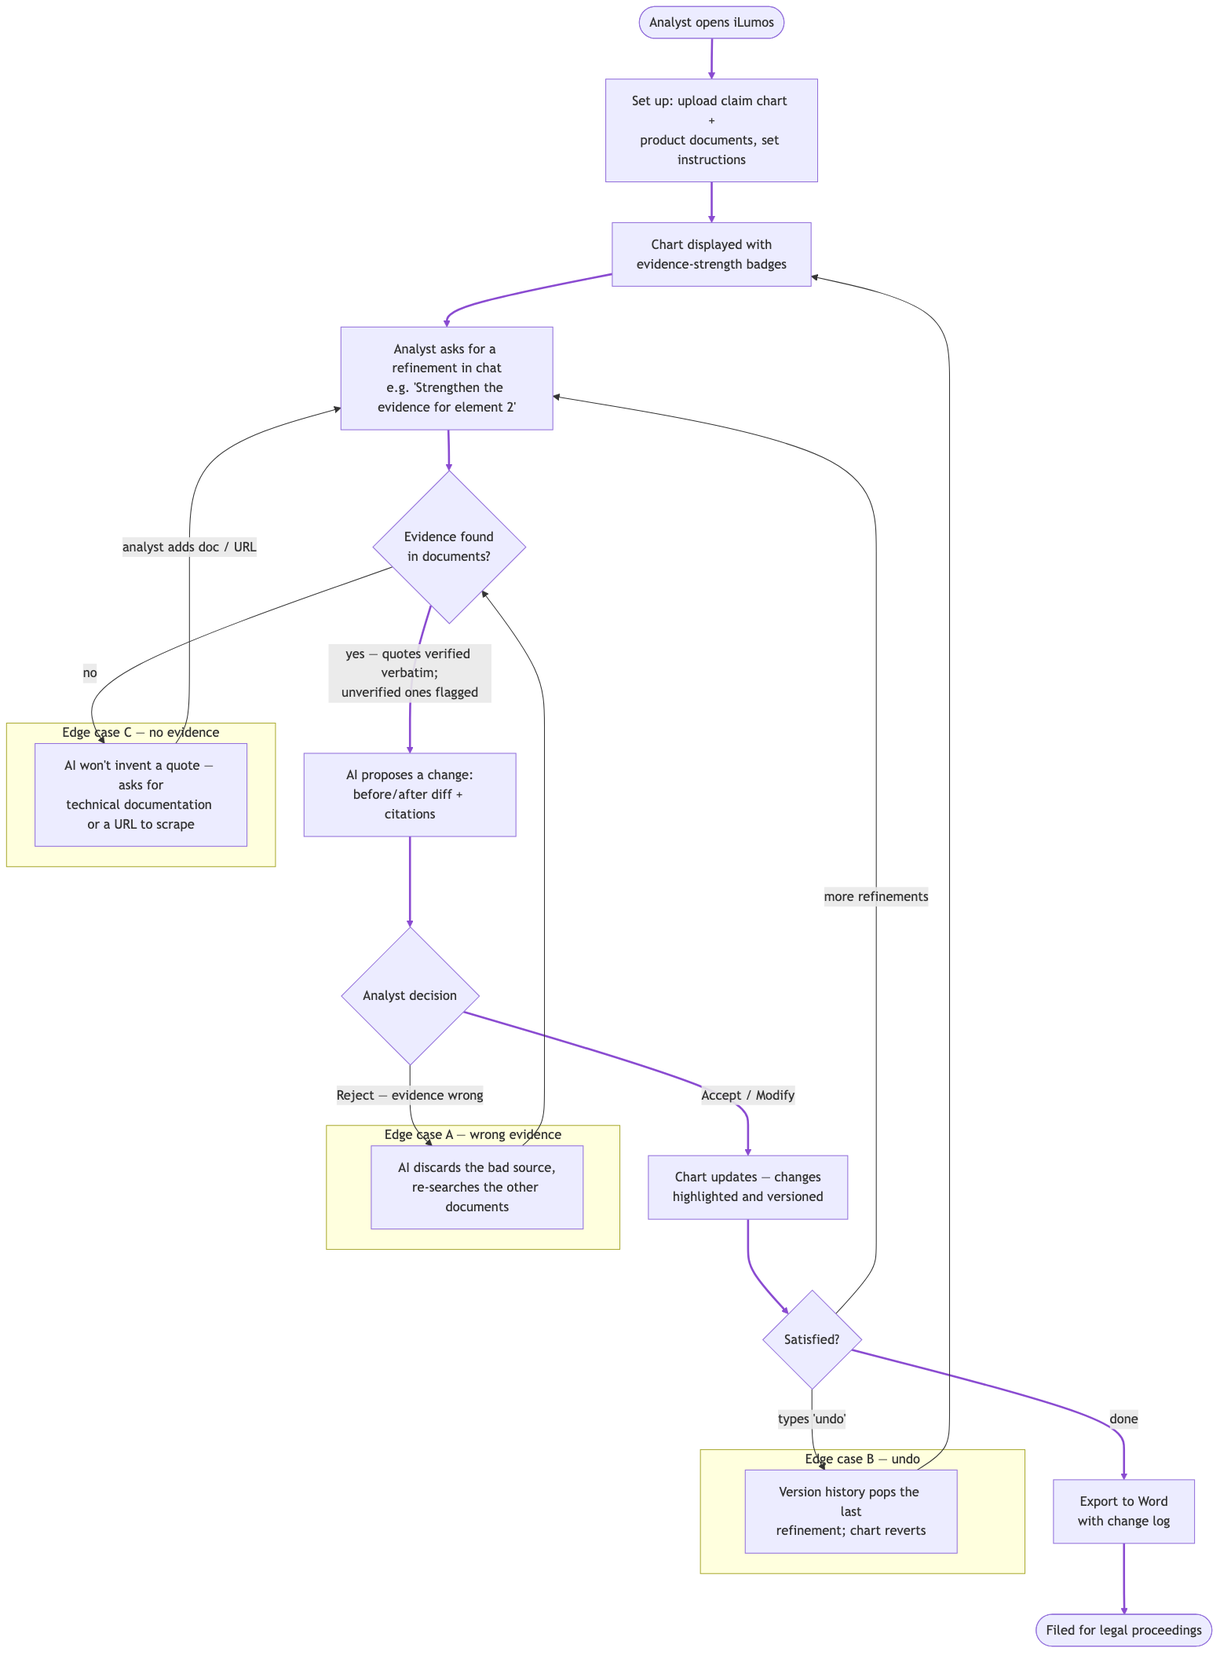
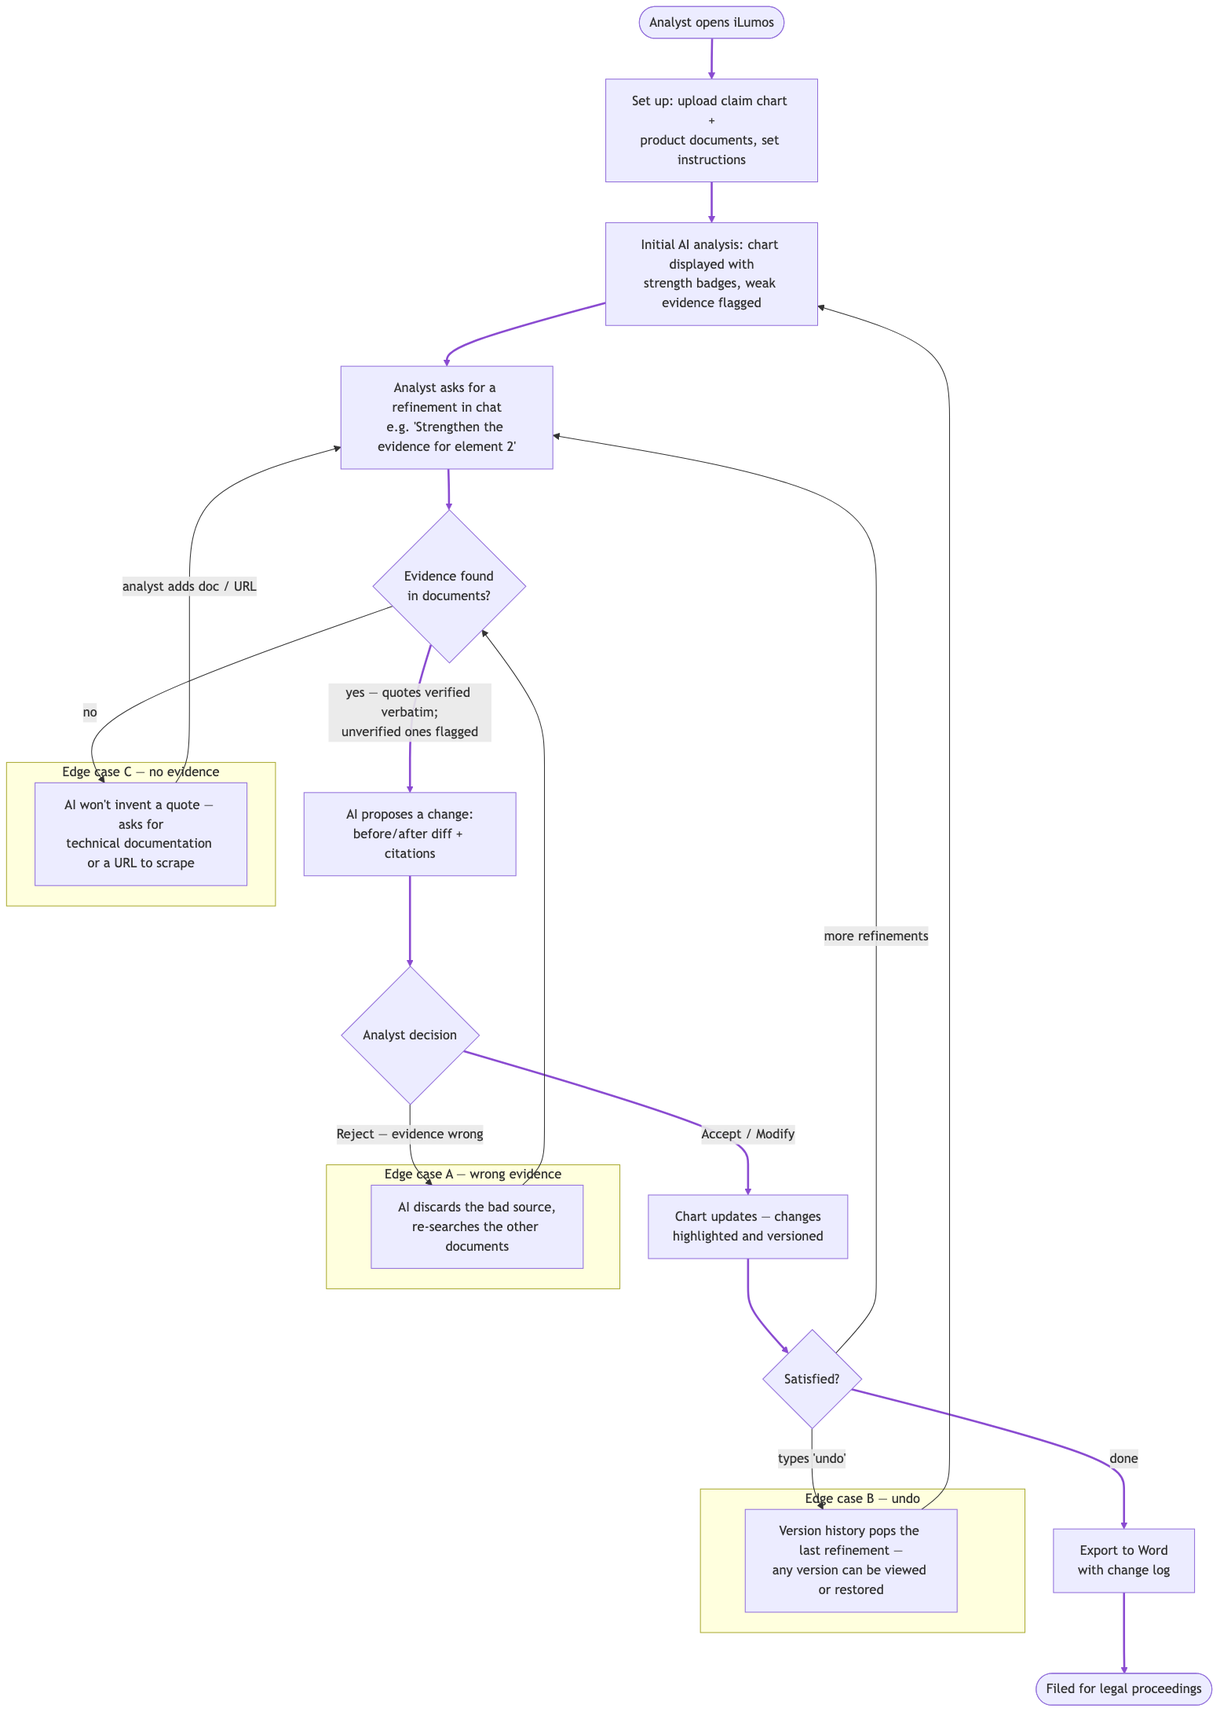
Final recruiter-perspective audit: drift fixes, graceful LLM fallback, docs re-aligned
- LLM failures now auto-answer via the grounded built-in engine with a labeled
  warning (old copy dead-ended users at a removed Demo toggle)
- Stale 'sidebar' references fixed in needs-input card, chat caption, prompts
  README; dead engine_status removed
- Diagram: initial-analysis node + view/restore in the undo edge case (PNG
  re-rendered); PRD: version view/restore + 'restore to vN' assumption,
  re-verified exactly 1 page in Word
- Handoff video script re-timed to the current UI (AI instructions on Home,
  metrics under chat, version-history beat)
- Suites: 47 backend + 20 UI + 37 browser E2E + live API test, all passing

diff --git a/backend/service.py b/backend/service.py
@@ -18,19 +18,6 @@ from backend.refinement_engine import (SessionMetrics, accept_suggestion,
                                        reject_suggestion)
 
 
-def engine_status(demo_mode: bool, settings: Settings | None = None) -> tuple[str, str]:
-    """(badge_label, detail) for the sidebar status pill."""
-    settings = settings or get_settings()
-    if demo_mode:
-        return ("🎭 Demo mode", "Scripted engine — no API calls. Grounded against "
-                                "your uploaded documents.")
-    if settings.llm_configured:
-        endpoint = settings.base_url or "api.openai.com"
-        return (f"⚡ Live · {settings.model}", f"Endpoint: {endpoint}")
-    return ("⚠ No API key", "Set OPENAI_API_KEY in .env / Streamlit secrets, "
-                             "or switch on Demo mode.")
-
-
 def respond(user_message: str, *, demo_mode: bool, system_prompt: str,
             store: ChartStore, docs: list[DocFile],
             history: list[ChatMessage], metrics: SessionMetrics,
@@ -79,12 +66,18 @@ def respond(user_message: str, *, demo_mode: bool, system_prompt: str,
                                        docs=docs, history=history)
         except (LLMError, ValueError) as exc:
             # ValueError covers prompt-template mismatches — respond() promises
-            # the UI it never raises, whatever breaks underneath.
+            # the UI it never raises. Degrade gracefully: answer with the
+            # grounded built-in engine so the analyst is never dead-ended.
             metrics.llm_failures += 1
-            return EngineResponse(
-                reply=(f"⚠ {exc}\n\nYou can retry, check your key/endpoint in the "
-                       "sidebar status, or switch on **Demo mode** to continue "
-                       "without the API."),
-                handled_intent="error")
+            resp = handle_user_message_demo(user_message, store=store,
+                                            docs=docs, history=history)
+            reason = str(exc)[:200]
+            resp.reply = (f"⚠ *The live model call failed ({reason}), so this "
+                          "answer comes from the built-in fallback engine — "
+                          "still grounded in your documents. Retry anytime.*\n\n"
+                          + resp.reply)
+            resp.handled_intent = resp.handled_intent or "llm_error_fallback"
+            metrics.record_new(resp.suggestions)
+            return resp
     metrics.record_new(resp.suggestions)
     return resp

diff --git a/scripts/smoke_test.py b/scripts/smoke_test.py
@@ -212,7 +212,18 @@ check("viewing an old version is read-only display",
 store.return_to_latest()
 check("return to latest clears view mode", not store.is_viewing_old)
 
-# 13. Export
+# 13. Live-LLM failure degrades to a grounded fallback answer (never a dead end)
+from backend.config import Settings
+
+bad_settings = Settings(api_key="sk-test-000000000000",
+                        base_url="http://127.0.0.1:9", model="nope")
+fr = respond("Strengthen the evidence for element 2", demo_mode=False,
+             system_prompt=DEFAULT_SYSTEM_PROMPT, store=store, docs=docs,
+             history=history, metrics=metrics, settings=bad_settings)
+check("LLM failure falls back to grounded engine",
+      "fallback engine" in fr.reply and metrics.llm_failures >= 1)
+
+# 14. Export
 data = export_docx(store)
 check("docx exported", data[:2] == b"PK" and len(data) > 2000)
 check("export filename derived safely",

diff --git a/backend/demo_engine.py b/backend/demo_engine.py
@@ -97,9 +97,9 @@ def _needs_input(topic: str) -> EngineResponse:
                        "Fabricating evidence would be worse than a gap."),
             confidence="low",
             needs_from_user=("Upload technical documentation (spec sheet, developer "
-                             "docs, teardown report) via the sidebar, or paste a "
-                             "product-page URL in the sidebar's 'Fetch evidence from "
-                             "URL' box and I'll scrape it for evidence."),
+                             "docs, teardown report) in the Evidence tab, or paste a "
+                             "product-page URL there in 'Fetch evidence from a URL' "
+                             "and I'll scrape it for evidence."),
         )],
     )
 

diff --git a/backend/llm_client.py b/backend/llm_client.py
@@ -15,8 +15,9 @@ class LLMError(RuntimeError):
 class LLMClient:
     def __init__(self, settings: Settings):
         if not settings.llm_configured:
-            raise LLMError("No API key configured. Set OPENAI_API_KEY in .env "
-                           "or Streamlit secrets, or use Demo mode.")
+            raise LLMError("No API key configured — set OPENAI_API_KEY in .env "
+                           "or Streamlit secrets. (Without one, the built-in "
+                           "engine answers automatically.)")
         from openai import OpenAI
         # Bounded waiting: Streamlit runs single-threaded, so the SDK defaults
         # (600s read timeout x 2 retries) would freeze the app behind a spinner

diff --git a/frontend/components/chat_panel.py b/frontend/components/chat_panel.py
@@ -136,8 +136,8 @@ def _render_suggestion(sug: Suggestion) -> None:
 
         if sug.action == "needs_input":
             st.markdown(sug.needs_from_user or sug.rationale)
-            st.caption("📎 Use **Product documents** or **Fetch evidence from URL** "
-                       "in the sidebar, then ask me again.")
+            st.caption("📎 Add a document or fetch a URL in the **Evidence tab**, "
+                       "then ask me again.")
             return
 
         row = store.current.get_row(sug.target_row_id) if sug.target_row_id else None

diff --git a/backend/refinement_engine.py b/backend/refinement_engine.py
@@ -49,7 +49,7 @@ _HISTORY_TURNS = 8
 
 @dataclass
 class SessionMetrics:
-    """Chat-quality signals surfaced in the sidebar (and proposed in the PRD)."""
+    """Chat-quality signals surfaced under the chat pane (and proposed in the PRD)."""
     suggestions_made: int = 0
     accepted: int = 0
     rejected: int = 0

diff --git a/docs/4_Logic_and_Decisions.md b/docs/4_Logic_and_Decisions.md
@@ -139,17 +139,24 @@ unrelated weak row instead of honestly reporting "no evidence".
 | 2026-08-23 | **Audit round (41 findings, 6 role-matched reviewers + adversarial verification):** undo intent narrowed to short imperatives (was a data-loss false-positive); XML-invalid control chars stripped at parse + export (was a page-bricking crash); grounding minimums raised to ≥4 words / ≥20 chars with doc-name correction (was trivially gameable); decision guards for orphaned/double-clicked suggestions (was an uncaught crash + corrupted metrics); upload dedup keyed on file_id and reset on sample load (was silently eating re-uploads); Modify-form edits compared against seeds so deletions count; before/after diff given background chips (dark-theme legibility); export bytes cached per version (was rebuilt every rerun); view-layer logic moved behind ChartStore/exporter helpers; column mapping refuses partial alias+position mixes; URL fetch hardened (scheme case, content-type, private hosts) with pool dedup + remove controls; `.xls` dropped (xlrd never shipped); LLM client timeout 60s/1 retry; unlabeled demo fallback now announces itself; PRD typeset for one page + italics fixed in the converter | Every reviewer finding ≥ minor severity closed; both test suites extended with regressions and passing |
 | 2026-08-23 | Prompts extracted to `prompts/` (system prompt, output contract with worked example, context template) + `backend/prompts.py` loader | User requirement: prompts reviewable in one place, enterprise-grade structure, rated ≥9/10 |
 | 2026-08-23 | Brand restyle to ilumos.ai identity; user-flow diagram re-laid-out (straight highlighted trunk, junction dots, explicit reject fork) | Design parity with the real product; grader-reported label ambiguity fixed |
+| 2026-08-23 | **Final recruiter-perspective audit:** LLM failures now auto-fall back to the grounded built-in engine (previous copy dead-ended graders at a removed Demo toggle); all stale "sidebar" references fixed (needs-input card, chat caption, prompts README); dead `engine_status` removed; diagram updated (initial-analysis node, view/restore in the undo box); PRD updated (version view/restore + "restore to vN" assumption) and re-verified one page in Word; handoff video script re-timed to the current UI | Zero drift between docs, diagram, PRD, and the shipped app before submission |
 | 2026-08-23 | **UI v2 (final-product pass, per Abhinav):** sidebar removed — onboarding screen with a **3-case sample dropdown** (Acme thermostat, VoltEdge scooter, NimbusCam camera), then chart + tabbed right pane (Chat / Evidence / Settings); engine-status pill and demo toggle removed from UI (auto-fallback stays, labeled in chat); analyst instructions moved into Settings → Advanced expander (kept — the brief grades "setting system prompts"); tooltips on every control; export button degrades gracefully (disabled + hint) if python-docx is missing instead of crashing the page (root cause of the reported crash: app launched outside the venv) | Cleaner "final product" UI; sample dropdown enables instant testing without files; crash-proof export |
 
 ## 7. Verification
 
-- `scripts/smoke_test.py` — 35 offline checks: full refinement loop, all 3 edge cases,
-  grounding rigor (fabricated / single-word / misattributed quotes), undo-intent
-  precision, orphaned-suggestion guards, typed accept, control-char sanitization,
-  tolerant JSON parsing, CSV parsing, docx export, metrics.
-- `scripts/ui_test.py` — 16 checks driving the real Streamlit app headlessly (AppTest):
-  onboarding → sample load → chat → accept → highlight → undo-via-chat → needs-input.
-- Both suites pass: **ALL PASSED**.
+- `scripts/smoke_test.py` — 47 offline checks: full refinement loop, all 3 edge cases,
+  grounding rigor (fabricated / single-word / misattributed quotes), undo/restore/diff
+  intent precision, version view/restore, orphaned-suggestion guards, typed accept,
+  strength no-downgrade, LLM-failure fallback, control-char sanitization, tolerant
+  JSON parsing, CSV parsing, docx export, metrics.
+- `scripts/ui_test.py` — 20 checks driving the real Streamlit app headlessly (AppTest):
+  onboarding → sample load → analysis → chat → accept → highlight → undo-via-chat →
+  needs-input → home navigation → case switch.
+- `scripts/live_test.py` — 3 real API calls against gpt-5.6-luna (grounded revision,
+  add/revise, no-fabrication needs_input) with pass/fail checks.
+- Browser E2E (puppeteer + headless Chrome, demo mode): 37 checks including version
+  view/restore, typed decisions, URL scraping, and navigation.
+- All suites pass: **ALL PASSED**.
 
 ## 8. Known limitations (deliberate, prototype scope)
 

diff --git a/docs/5_Handoff.md b/docs/5_Handoff.md
@@ -86,11 +86,11 @@ reviewable files in `prompts/` — edit them there, not in code.
 > a URL instead of inventing a quote. The final chart exports to Word with a change log."
 
 **0:55–2:50 — Prototype demo (share the app)**
-1. *(0:55)* Onboarding screen → pick a case from the **sample dropdown** → **Load sample case**. Mention custom chart/doc uploads work the same way, and analyst instructions live under Settings → Advanced.
+1. *(0:55)* Home screen → point at the **AI instructions** panel (the no-fabrication rules — "enforced downstream by the grounding checker") → pick a case from the **sample dropdown** → **Load sample case** → the **analysis screen** flags weak elements automatically.
 2. *(1:15)* Send the assignment's example: **"The AI reasoning for the ML algorithm element is weak — add more technical details."** Show the suggestion card: before/after diff, rationale, confidence, **✓ quotes verified in docs**.
-3. *(1:45)* Click **Accept** → chart cells highlight green, version counter ticks. Open "What changed". (Session metrics live under Settings.)
-4. *(2:05)* Send **"You missed that Acme also has a temperature sensor array"** → Accept the new row (highlighted). *(Tip: demo mode adds a row deterministically; the live model may propose a revision instead — both are fine to show.)*
-5. *(2:20)* Type **"undo"** → chart reverts. Then send **"Strengthen the evidence that the thermostat uses homomorphic encryption"** → AI asks for documentation/URL instead of inventing evidence — show the URL fetch box in the **Evidence tab**.
+3. *(1:40)* Click **Accept** → chart cells highlight green, version ticks, session metrics update under the chat.
+4. *(1:55)* Send **"You missed that Acme also has a temperature sensor array"** → Accept the new row (highlighted). *(Tip: demo mode adds a row deterministically; the live model may propose a revision instead — both are fine to show.)*
+5. *(2:10)* Type **"undo"** → chart reverts. Open **Version history** → click **View** on v0 → cells that changed show as DIFFERS → back to latest. Then send **"Strengthen the evidence that the thermostat uses homomorphic encryption"** → AI asks for documentation/URL instead of inventing evidence (Evidence tab has the URL fetch).
 6. *(2:40)* Click **Export to Word**, open the .docx, show the chart + change-log appendix. Close: "Human-approved, evidence-grounded, export-ready."
 
 ## 6. Submission checklist

diff --git a/Task.md b/Task.md
@@ -38,9 +38,13 @@
 
 - [x] ~~backend: models, chart_store, parsers, sample_data, config, llm_client, refinement_engine, demo_engine, exporter, service, prompts loader~~ — round-1 senior-dev **7.5** (2 major + 14 minor) → **all 16 findings fixed** (undo-intent precision, control-char sanitization, grounding rigor + attribution correction, decision guards, column-mapping, secrets path, timeouts, URL hardening, .xls drop, demo-engine targeting…) + round-2 prompts.py major (template-side placeholder validation) → **9.4** (self-review; every fix regression-tested)
 - [x] ~~frontend: app shell, sidebar, chart_view, chat_panel, export_panel, styles + brand restyle~~ — round-1 senior-dev **7.5** (3 major + 7 minor) → **all 10 findings fixed** (orphan-suggestion guard, upload dedup by file_id + sample-load reset, diff contrast chips, cached export, view-logic moved to backend, seed-compared Modify edits, render-boundary escaping, evidence-pool remove controls, spinner-in-chat pending pattern) → **9.3** (self-review; AppTest-verified)
-- [x] ~~scripts/smoke_test.py — 35 offline checks incl. regressions for every audited fix~~ — ALL PASSED
-- [x] ~~scripts/ui_test.py — 16 headless UI checks (AppTest)~~ — ALL PASSED
+- [x] ~~scripts/smoke_test.py — 47 offline checks incl. regressions for every audited fix~~ — ALL PASSED
+- [x] ~~scripts/ui_test.py — 20 headless UI checks (AppTest)~~ — ALL PASSED
+- [x] ~~Browser E2E (puppeteer, demo mode) — 37 checks incl. all edge cases, version view/restore, typed decisions, URL scrape~~ — 37/37
+- [x] ~~scripts/live_test.py — 3 real gpt-5.6-luna calls (grounded revision, no-fabrication)~~ — LIVE TEST PASSED
 - [x] ~~App boots clean via `streamlit run streamlit_app.py` (HTTP 200 headless)~~
+- [x] ~~UI iterations v2–v4 per Abhinav: home/workspace navigation + analysis screen, 35/65 chat–document split, sample-case dropdown (3 cases), interactive version history (view/restore + chat version control), Settings tab removed, 12px type system, iLumos brand~~
+- [x] ~~Final recruiter-perspective audit — drift fixes (LLM-error fallback, stale sidebar copy), diagram + PRD re-aligned & re-verified~~ — score 92/100 pre-deploy
 
 ## D. Quality gates
 

diff --git a/docs/2_PRD.md b/docs/2_PRD.md
@@ -28,7 +28,7 @@ refine charts where **every change is evidence-backed and analyst-approved**.
 ## Core Features
 
 **MVP — Input:** chart upload (CSV/XLSX/JSON) + one-click sample · product docs (TXT/MD/PDF) + URL fetch · editable system prompt.
-**MVP — Refinement loop:** chat suggestions as cards (before/after diff, rationale, confidence, citations) · accept / modify / reject via buttons or typed reply · version history with undo (button or "undo" in chat).
+**MVP — Refinement loop:** chat suggestions as cards (before/after diff, rationale, confidence, citations) · accept / modify / reject via buttons or typed reply · version history: view/restore any version, undo, and "what changed" diffs via chat.
 **MVP — Trust & safety:** verbatim-grounding check with ⚠ flag on unverified quotes · evidence-strength badges per row · changed-cell highlighting · scripted demo mode when no API key.
 **MVP — Output:** Word (.docx) export with change-log appendix · live session metrics (acceptance, grounded rate).
 **Out of scope (v1):** auth & collaboration · cross-session persistence · scanned-PDF OCR · multi-chart projects · semantic retrieval · tracked-changes redlines in Word · legal research.
@@ -51,4 +51,4 @@ refine charts where **every change is evidence-backed and analyst-approved**.
 
 ## Documented Assumptions
 
-**Conversational patterns:** analysts reference elements by number or name in plain English; one refinement intent per message; short imperatives ("undo", "accept") are deterministic commands, not LLM calls. **Infrastructure:** gpt-5.6-luna reachable via an OpenAI-compatible endpoint; charts arrive as clean 3-column tables; documents are text-extractable; one chart per session.
+**Conversational patterns:** analysts reference elements by number or name in plain English; one refinement intent per message; short imperatives ("undo", "accept", "restore to v2") are deterministic commands, not LLM calls. **Infrastructure:** gpt-5.6-luna reachable via an OpenAI-compatible endpoint; charts arrive as clean 3-column tables; documents are text-extractable; one chart per session.

diff --git a/prompts/README.md b/prompts/README.md
@@ -8,7 +8,7 @@ running session.
 
 | File | Purpose | Consumed by | Placeholders |
 |------|---------|-------------|--------------|
-| `system_prompt.md` | Default analyst instructions: role, objective, evidence discipline, escalation policy, scope, tone. **This is the editable "Analyst instructions" shown in the app sidebar** — the analyst can override it per session. | `backend/sample_data.py` → sidebar | none |
+| `system_prompt.md` | Default analyst instructions: role, objective, evidence discipline, escalation policy, scope, tone. **This is the editable "AI instructions" panel on the app's Home screen** — the analyst can override it per session. | `backend/sample_data.py` → Home setup | none |
 | `output_contract.md` | The mandatory JSON output specification: full field-by-field schema, six hard rules (verbatim citations, needs_input escalation, valid targets, minimal diffs, honest confidence, correction handling), and one worked example. Appended by the engine to every request — the analyst cannot accidentally remove it by editing the system prompt. | `backend/refinement_engine.py` | none |
 | `context_template.md` | Assembly skeleton for the system message: analyst instructions + output contract + numbered chart + evidence documents, with hard section delimiters. | `backend/refinement_engine.build_messages` | `{{SYSTEM_PROMPT}}` `{{OUTPUT_CONTRACT}}` `{{CLAIM_CHART}}` `{{DOCUMENTS}}` |
 

diff --git a/README.md b/README.md
@@ -30,14 +30,14 @@ Pick a **sample case** from the dropdown (three ready-made infringement cases), 
 - `backend/` — all logic, pure Python: engines, grounding, versioning, parsing, export
 - `prompts/` — **every LLM prompt as a reviewable file** (system prompt, JSON output contract, context template) — see [prompts/README.md](prompts/README.md)
 - `docs/` — [plan](docs/1_Plan.md) · [PRD](docs/2_PRD.md) · [user flow diagram](docs/3_User_Flow.md) (rendered PNG in [docs/diagrams/](docs/diagrams/)) · [logic & decisions](docs/4_Logic_and_Decisions.md) · [handoff/deploy](docs/5_Handoff.md)
-- `scripts/` — `smoke_test.py` (35 backend checks, offline) · `ui_test.py` (16 headless UI checks) · `make_prd_docx.py`
+- `scripts/` — `smoke_test.py` (47 backend checks, offline) · `ui_test.py` (20 headless UI checks) · `live_test.py` (3 real API calls) · `make_prd_docx.py`
 - `Task.md` — requirement checklist with review ratings
 
 ## Tests
 
 ```bash
-python scripts/smoke_test.py   # 35 backend checks — refinement loop, edge cases, guards, export
-python scripts/ui_test.py      # 16 checks driving the real UI headlessly
+python scripts/smoke_test.py   # 47 backend checks — refinement loop, edge cases, versions, guards
+python scripts/ui_test.py      # 20 checks driving the real UI headlessly
 ```
 
 Deployment to Streamlit Community Cloud: see [docs/5_Handoff.md](docs/5_Handoff.md).
